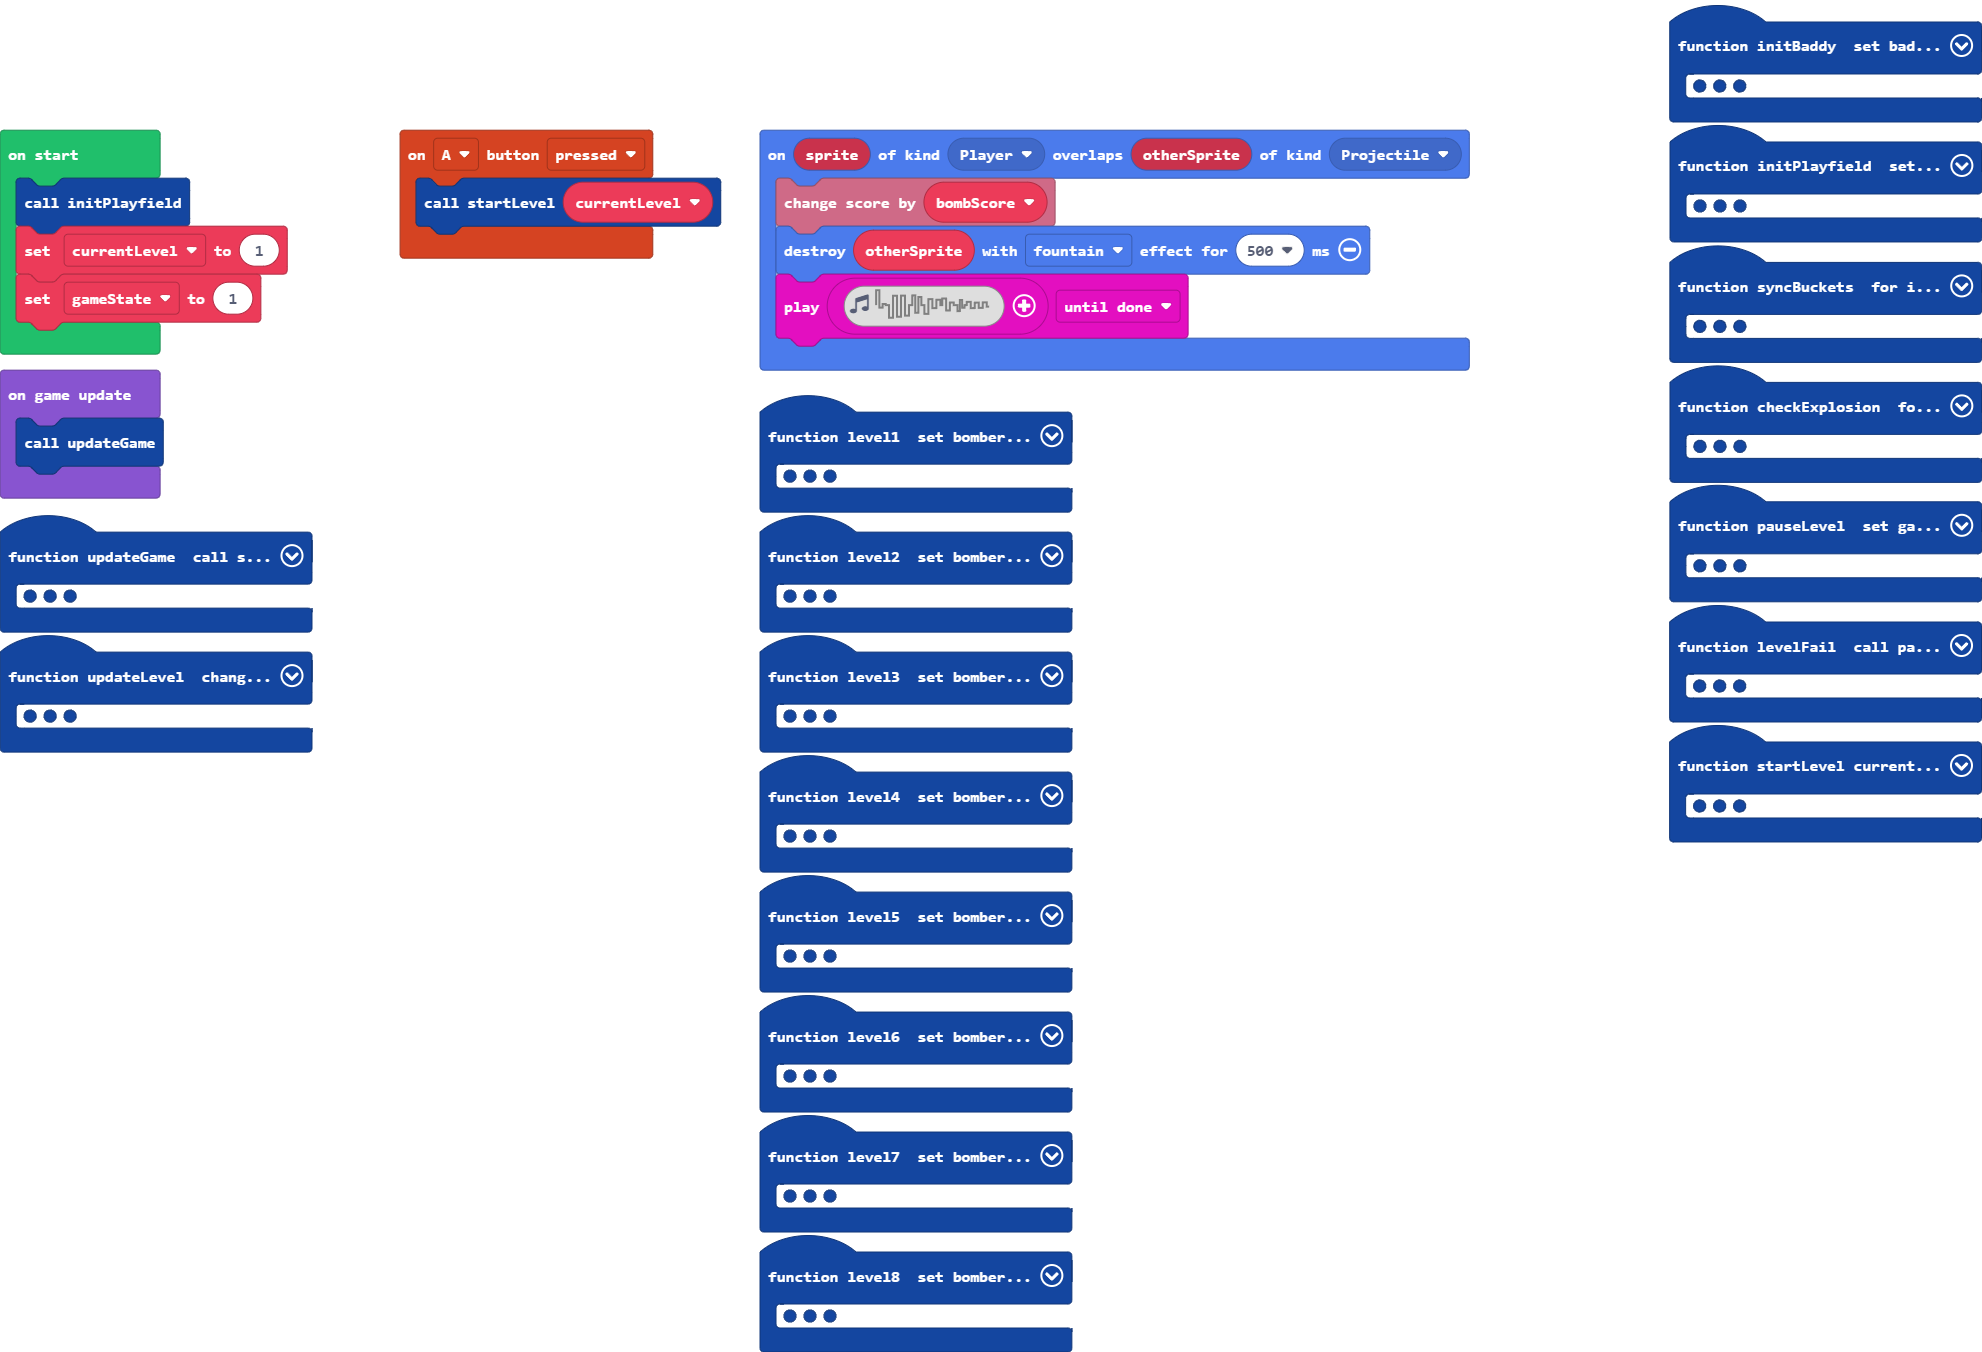
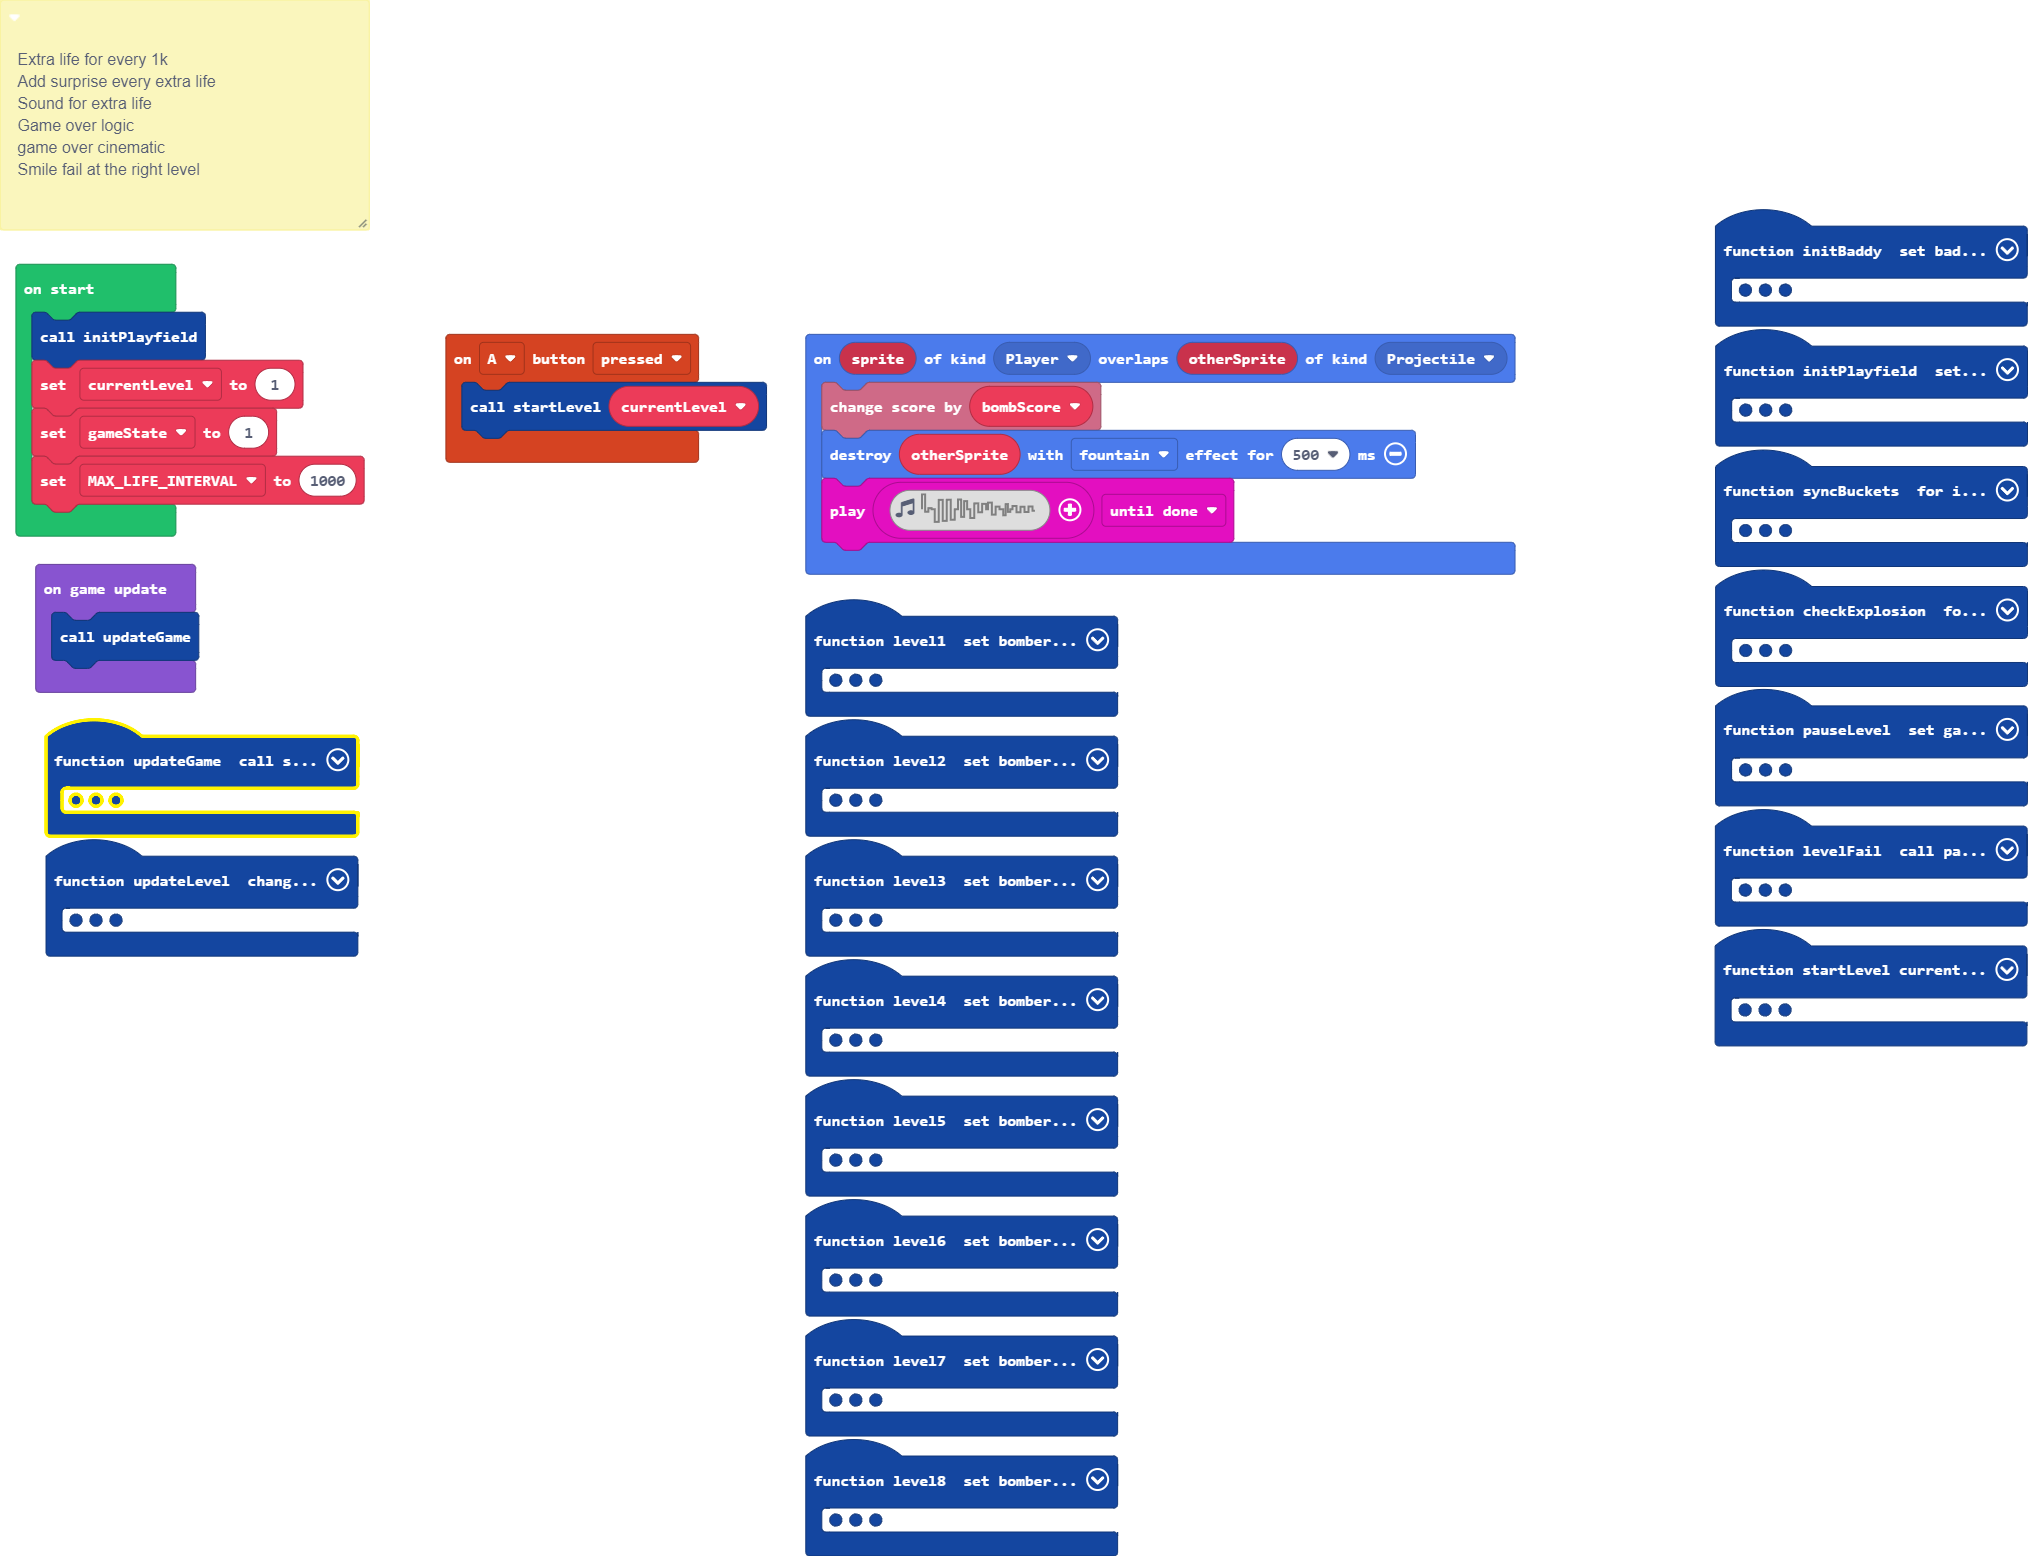
Update main.blocks, main.ts

diff --git a/main.ts b/main.ts
@@ -1,6 +1,19 @@
 namespace SpriteKind {
     export const Background = SpriteKind.create()
 }
+/**
+ * Extra life for every 1k
+ * 
+ * Add surprise every extra life
+ * 
+ * Sound for extra life
+ * 
+ * Game over logic
+ * 
+ * game over cinematic
+ * 
+ * Smile fail at the right level
+ */
 function level8 () {
     bomberSpeed = 100
     bombCount = 150
@@ -325,6 +338,7 @@ let currentLevel = 0
 initPlayfield()
 currentLevel = 1
 gameState = 1
+let MAX_LIFE_INTERVAL = 1000
 game.onUpdate(function () {
     updateGame()
 })
